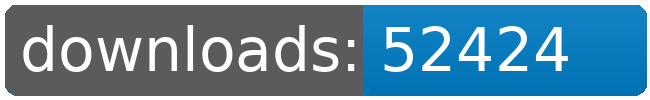
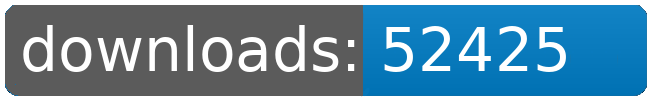
dl log written

Changed region(s): [[0.8, 0.27, 0.8923, 0.72]]

diff --git a/README.md b/README.md
@@ -21,8 +21,8 @@
 		<td>7041</td>
 		<td>7059</td>
 		<td>7079</td>
-		<td>7100</td>
-		<td>+ 21</td>
+		<td>7101</td>
+		<td>+ 22</td>
 	</tr>
 	<tr>
 		<td>Factory.Outlets</td>
@@ -120,8 +120,8 @@
 		<td></td>
 		<td></td>
 		<td></td>
-		<td>52424</td>
-		<td>124</td>
+		<td>52425</td>
+		<td>125</td>
 	</tr>
 </table>
 </sub></sup>
@@ -157,8 +157,8 @@
 		<td>7041</td>
 		<td>7059</td>
 		<td>7079</td>
-		<td>7100</td>
-		<td>+ 21</td>
+		<td>7101</td>
+		<td>+ 22</td>
 	</tr>
 	<tr>
 		<td>Louise.Conglomerate.Shipyards</td>
@@ -245,8 +245,8 @@
 		<td></td>
 		<td></td>
 		<td></td>
-		<td>52424</td>
-		<td>124</td>
+		<td>52425</td>
+		<td>125</td>
 	</tr>
 </table>
 </sub></sup>